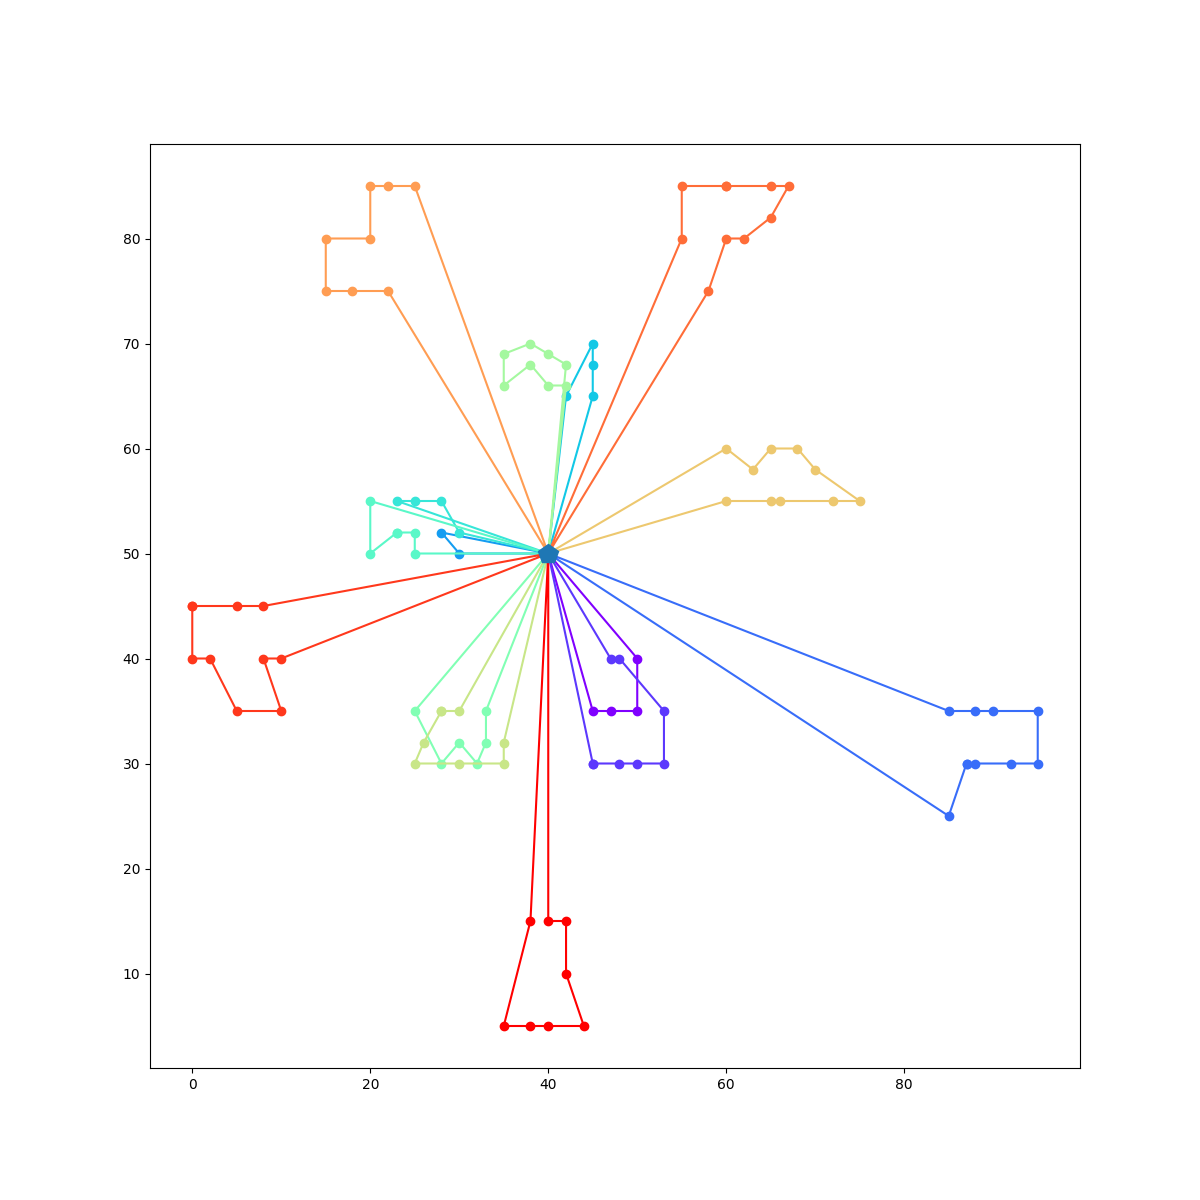
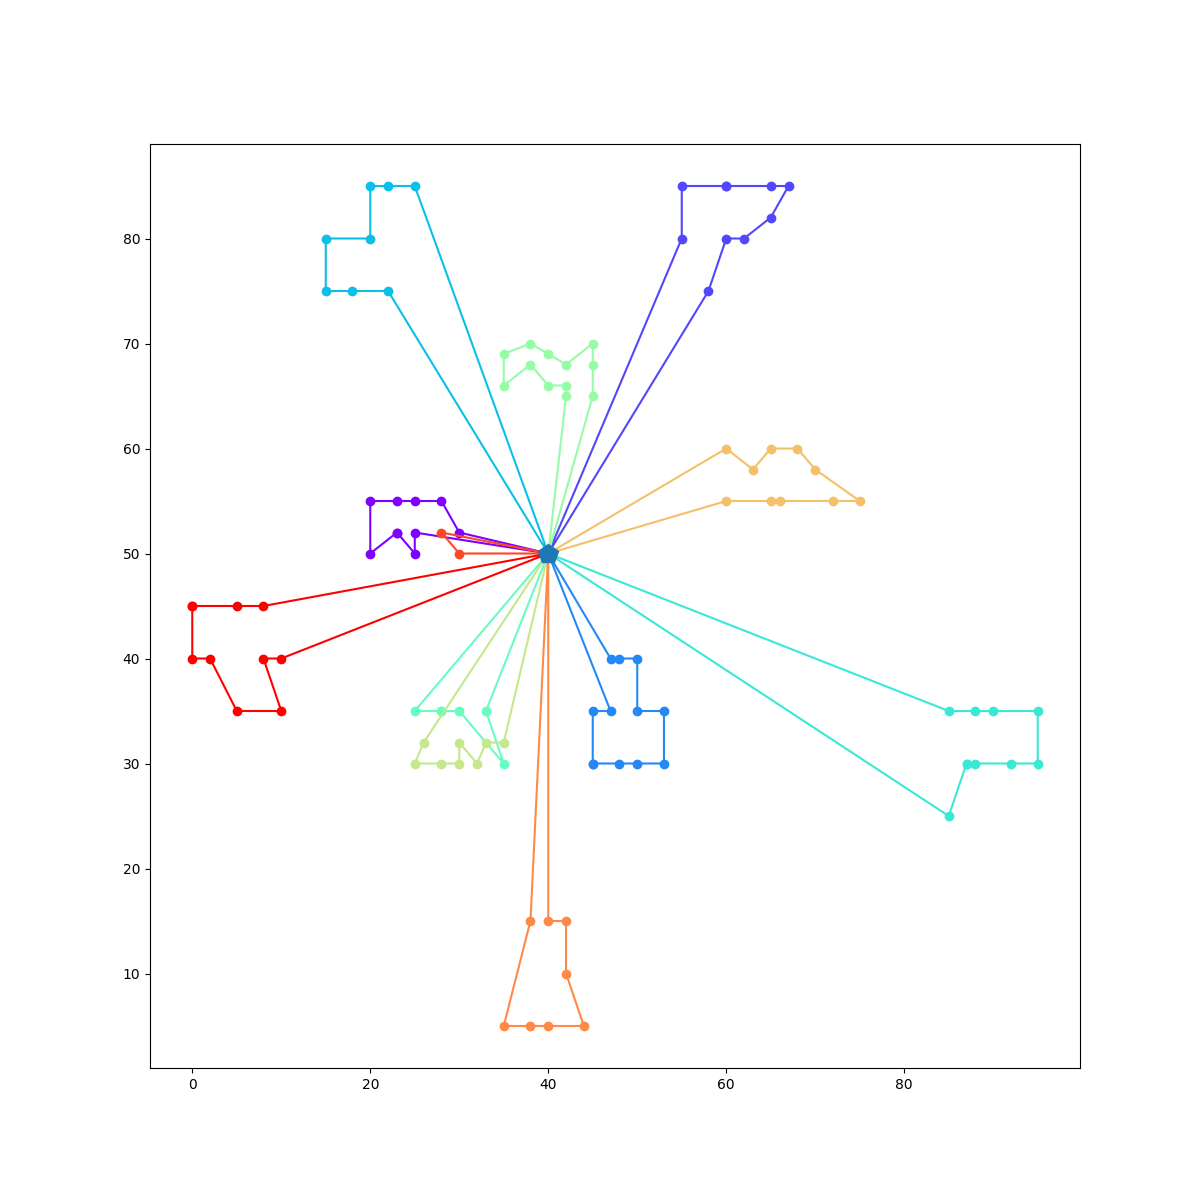
Add electric vehicle parameter controller

diff --git a/Route.py b/Route.py
@@ -6,7 +6,7 @@ Created on Thu Jul 28 17:10:03 2022
 """
 import sys
 from Problem import Location
-
+from Parameters import Parameters
 
 class Route:
     """
@@ -84,13 +84,15 @@ class Route:
             if curTime>curNode.endTW:
                 return False
             #check if capacity not exceeded
+            
             curLoad += curNode.demand
             if curLoad>self.problem.capacity:
                 return False
             #check if vehicle has enough charge
-            curCharge = curCharge - dist
-            if curCharge < 0:
-               return False
+            if Parameters.useBattery:
+                curCharge = curCharge - dist
+                if curCharge < 0:
+                   return False
             #check if we don't do a delivery before a pickup
             if curNode.typeLoc == 1:
                 #it is a pickup

diff --git a/Parameters.py b/Parameters.py
@@ -4,8 +4,9 @@ class Parameters:
     Class that holds all the parameters for ALNS
     """
     
-    maketwoOpt = True
+    maketwoOpt = False
     
+
     nIterations = 80  #number of iterations of the ALNS
     
     minSizeNBH = 1      #minimum neighborhood size CALIBRATED
@@ -24,7 +25,7 @@ class Parameters:
     startTempControl = 0.1 # Calibrated  # this means if will accept the solotions with 10% highes cost with 50% Prob
     coolingRate = 0.7 #     updateSpeed = 0.8 # For adaptive
 
-    
+    useBattery = True
     # ------------------------- #
 
     p = 5 # Calibrated

diff --git a/Main.py b/Main.py
@@ -10,11 +10,13 @@ from ALNS import ALNS
 
 #lr112
 
-testI = "instances/lc102.txt"
+testI = "instances/c202C16.txt"
 problem = Problem.PDPTW.readInstance(testI)
 print(problem)
 nDestroyOps = 4
 nRepairOps = 3
 alns = ALNS(problem,nDestroyOps,nRepairOps)
 alns.execute()
-
+print(len(alns.bestSolution.routes))
+for i in alns.bestSolution.routes:
+    print(i.computeDistance())
